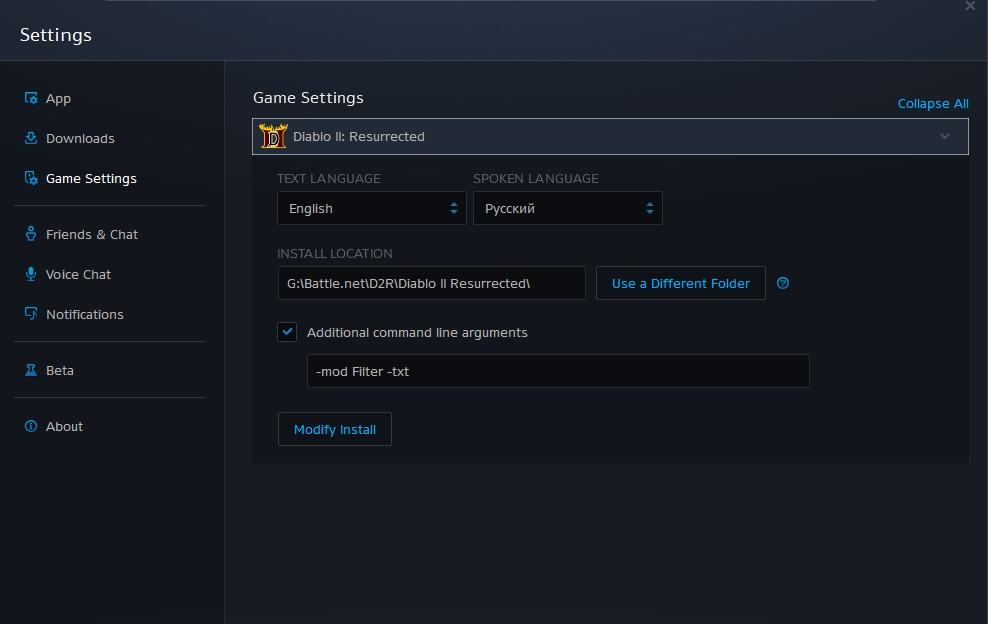
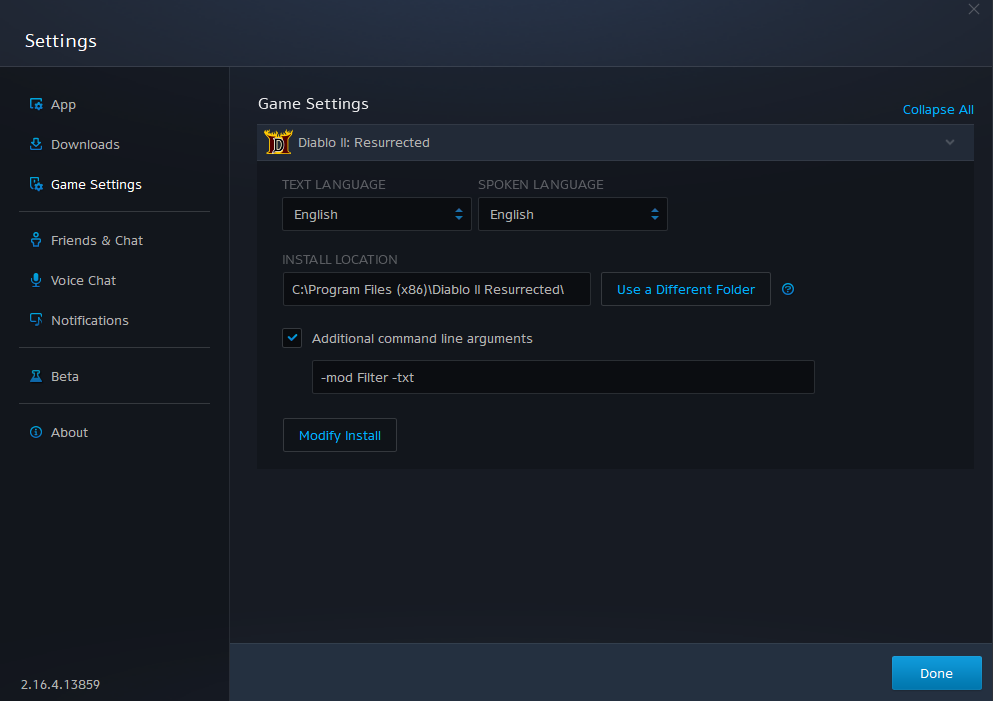
Images has been replaced, Update README.md

diff --git a/README.md b/README.md
@@ -8,7 +8,9 @@ In the game folder (e.g.: ```C:\Program Files (x86)\Diablo II Resurrected\```)
 
 create folder ```mods``` (e.g.: ```C:\Program Files (x86)\Diablo II Resurrected\mods```) (Never change the folder name).
 
-Unzip the files into that folder
+Place the ```Filter``` folder in the ```mods``` folder
+
+As a result path: ```C:\Program Files (x86)\Diablo II Resurrected\mods\Filter\Filter.mpq```
 
 Change in game settings additional command line arguments : ```-mod Filter -txt```
 
